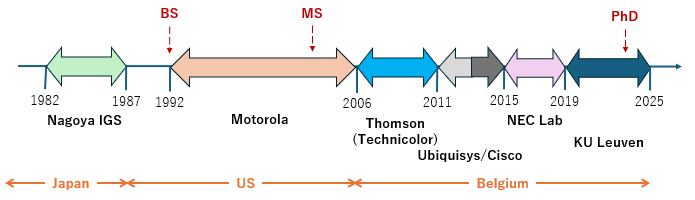
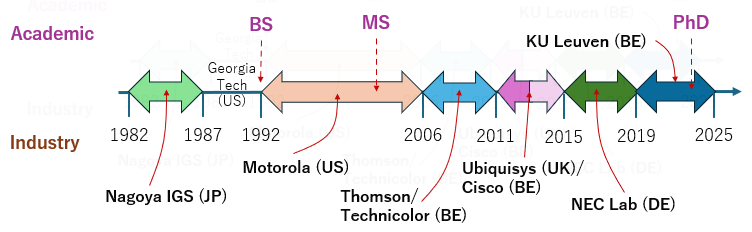
update 5/12/2025

diff --git a/index.html b/index.html
@@ -268,9 +268,10 @@
 
 
   <!-- <img srcset="timeline.jpg" alt=""> -->
-  <figure><img fetchpriority="high" decoding="async" src="timeline.JPG" alt="" class="wp-image-418"  /></figure>
+  <figure><img fetchpriority="high" decoding="async" src="timeline.PNG" alt="" class="wp-image-418"  /></figure>
   <br/>
 
+  <h3>Timeline</h3>
   <p>
   <strong>2022 - 2025:</strong> Tao Consulting, (Boom, Belgium)
   </p>
@@ -329,6 +330,24 @@
   <ul class="wp-block-list">
   <li><u>Software engineer, team leader</u>Software development of bespoke banking OS and banking transaction applications. Leading/mentoring a small group of developers.</li>
   </ul>
+
+  <h3>Standardization Work</h3>
+    I have participated and actively contributed to various Work Items (WI) and Study Items (SI), spanning over diverse topics between Rel.8 ~ Rel.15 time frame in the following working groups. The total number of contributions are approximately 260.
+    As a result, this experience helped me to gain general expertise to grasp and understand details of technical content rather quickly and effectively, written in usually difficult-to-understand manner.
+    This experience also gave me opportunities to learn non-technical soft skills, such as discussing and negotiating with difficult people on technical matters, explaining complex topics clearly to people, effectively reach agreement and consensus in professional manner.
+  <ul class="wp-block-list">
+    <li>3GPP SA3 (Security), SA5 (Management), SA6 (Public Safety).</li>
+    <li>3GPP RAN plenary, RAN3 (Protocols)</li>
+  </ul>
+
+  During the period of 2007~2010, I actively drove the standardization work of femtocell management system and its data model.
+  This work resulted in BBF TR-196. This is a culmination of collaboration with various people from various companies.
+  I was lucky to have this opportunity to take a leading role to drive this activity.
+  <ul class="wp-block-list">
+    <li>BBF: Standardization of femtocell Data Model TR-196</li>
+    <li>Femto Forum (Small Cell Forum): Femtocell management, architecture</li>
+  </ul>
+
   <a href="#top">back to top</a>
   <br>
   <br>
@@ -599,7 +618,7 @@
   <br><br>
   <div class="bottom-nav">
     <div>
-  		<p style="color:gray;">Last Update: 2025-12-04 </p>
+  		<p style="color:gray;">Last Update: 2025-12-05 </p>
   	</div>
   </div>
 
@@ -658,7 +677,7 @@
         <p> <img src="icon_email.PNG" alt="email" width="25" height="25"> <code><a href="mailto:takahito.yoshizawa@esat.kuleuven.be">takahito.yoshizawa at esat.kuleuven.be</a></code></p>
         <p> <img src="icon_linkedin.PNG" alt="linkedin" width="25" height="25"> <code><a href="https://www.linkedin.com/in/takayoshizawa/" data-type="link" data-id="https://www.linkedin.com/in/takayoshizawa/">https://www.linkedin.com/in/takayoshizawa/</a></code></p>
         <p><img src="icon_office.PNG" alt="office" width="25" height="25">
-          <img src="belgium_flag_icon.PNG" width="40" height="25"> 〒3001　ベルギー王国、ルーベン氏、カステールパーク・アレンバーグ 10、電子工学部 (ESAT)　(オフィス 01.13)<br>
+          <img src="belgium_flag_icon.PNG" width="40" height="25"> 〒3001　ベルギー王国、ルーベン市、カステールパーク・アレンバーグ 10番、電子工学部 (ESAT)　(オフィス 01.13)<br>
         </p>
         <p><img src="icon_office.PNG" alt="office" width="25" height="25">
           <img src="japan_flag_icon.PNG" width="40" height="25"> 〒455-0051 愛知県名古屋市港区<br>
@@ -694,9 +713,10 @@
 
   <!-- <img srcset="timeline.jpg" alt=""> -->
   <a id="work_history_experience_fig-jp"> </a>
-  <figure><img fetchpriority="high" decoding="async" src="timeline.JPG" alt="" class="wp-image-418"  /></figure>
+  <figure><img fetchpriority="high" decoding="async" src="timeline.PNG" alt="" class="wp-image-418"  /></figure>
   <br/>
 
+  <h3>略歴</h3>
   <p>
   <strong>2022 - 2025:</strong> タオ・コンサルティング (ベルギー、ボーム)
   </p>
@@ -754,6 +774,26 @@
   <ul class="wp-block-list">
   <li><u>ソフトウェアエンジニア、チームリーダー</u>銀行端末システムの専用OSおよび銀経業務ソフトウェアシステムの開発に従事する。他ソフトウェア開発エンジニアのサポートおよび支援を行う。</li>
   </ul>
+
+  <h3>国際標準化活動</h3>
+    リリース8からリリース15の期間で3GPPの複数のワーキンググループの会合に参加し、多数のワーキングアイテム（WI)およびスタディーアイテム（SI)に直接貢献しました。
+    約10年間の参加を通して寄書の総数は約260件ほどになりました。
+    これには寄書の前準備から発表、また他社との議論などの一連の事柄が含まれます。
+    この経験を通して技術的に複雑な内容でさらに標準仕様書で特徴的なわかりにくい英語の文章を効率的に理解する技術を身に着けました。
+    他社との議論などを通して、エンジニアとしての仕事とは別の（他社代表者との折衝、説明、説得、合意へ向けた議論などの）「ソフトスキル」を形成するのに役立ちました。
+  <ul class="wp-block-list">
+    <li>3GPP SA3 (セキュリティー), SA5 (システム管理), SA6 (パブリックセーフティー).</li>
+    <li>3GPP RAN plenary, RAN3 (プロトコル)</li>
+  </ul>
+
+  2007年から2010年の期間、フェムトセル（スモールセル）の管理システムとそのデータモデルの標準化においてリーダー的な立場で標準化を推進しました。
+  この結果BBFのTR-196データモデルとして標準化の策定となりました。
+  これには多数の他社からの代表者との協力を得て標準化にすることができました。
+  <ul class="wp-block-list">
+    <li>BBF: フェムトセルのデータモデル　TR-196標準化の推進役</li>
+    <li>Femto Forum (Small Cell Forum): 上記フェムトセルの管理アーキテクチャーとデータモデルの標準化に関するフォーラム内での調整活動</li>
+  </ul>
+
   <a href="#top_j">トップに戻る</a>
   <br>
   <br>
@@ -1015,7 +1055,7 @@
   <br><br>
   <div class="bottom-nav">
   	<div>
-  		<p style="color:gray;">Last Update: 2025-12-04 </p>
+  		<p style="color:gray;">Last Update: 2025-12-05 </p>
   	</div>
   </div>
 
